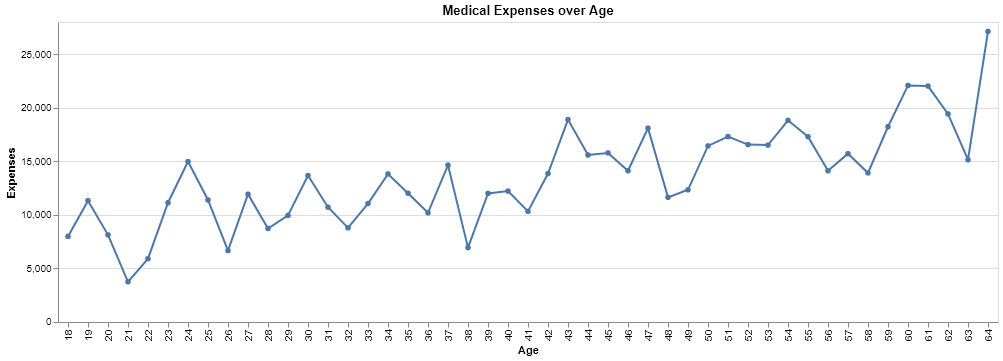
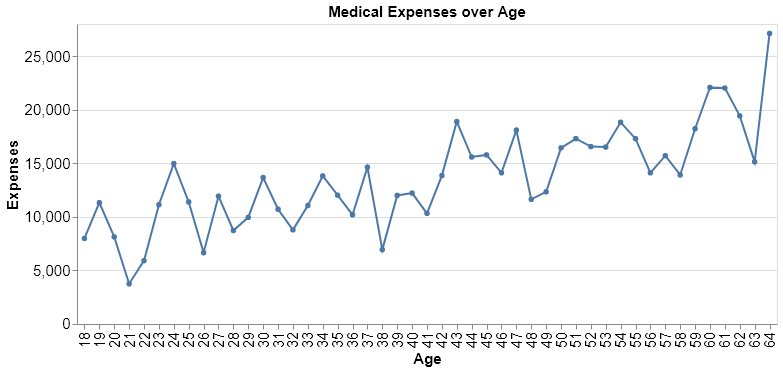
changed the size of the graph labels

diff --git a/src/visualization/eda.py b/src/visualization/eda.py
@@ -39,10 +39,9 @@ def main(input_data, output_location):
     alt.X('index:O', title=''),
     alt.Y('variable:O', title=''),
     alt.Color('value:Q',scale = alt.Scale(domain=[0, 1], scheme = 'purplered'))
-    ).properties(title="Correlation map of the features",
-            width = 300,
-            height = 300
-    )
+    ).properties(title="Correlation map of the features", width = 700, height = 300
+    ).configure_axis(labelFontSize = 15, titleFontSize = 15
+    ).configure_title(fontSize = 15)
     
     # saving results as png
     cor_map.save(output_location + '/0.correlation.png')
@@ -51,7 +50,9 @@ def main(input_data, output_location):
     meoa = alt.Chart(training_df.groupby(['age']).mean().reset_index()).mark_line(point = True).encode(
         alt.X('age:N', title = 'Age'),
         alt.Y('charges:Q', title = 'Expenses')
-    ).properties(title='Medical Expenses over Age')
+    ).properties(title='Medical Expenses over Age', width = 700, height = 300
+    ).configure_axis(labelFontSize = 15, titleFontSize = 15
+    ).configure_title(fontSize = 15)
     
     # saving results as png
     meoa.save(output_location + '/1.Expenses_VS_Age.png')
@@ -70,8 +71,9 @@ def main(input_data, output_location):
     bmi = alt.Chart(training_df.groupby(['bmi_cat']).mean().reset_index()).mark_bar().encode(
     alt.X('bmi_cat:N', title = 'BMI', sort=['underweigth', 'normal', 'overweight', 'obese']),
     alt.Y('charges:Q', title = 'Expenses')
-    ).properties(title='Medical Expenses vs BMI', width=300)
-
+    ).properties(title='Medical Expenses vs BMI', width = 700, height = 300
+    ).configure_axis(labelFontSize = 20, titleFontSize = 20
+    ).configure_title(fontSize = 20)
 
     # saving results as png
     bmi.save(output_location + '/2.Expenses_VS_BMI.png')
@@ -81,7 +83,9 @@ def main(input_data, output_location):
         alt.X('age:N', title = 'Age'),
         alt.Y('charges:Q', title = 'Expenses'),
         alt.Color('sex:N')
-    ).properties(title='Male and Female Medical Expenses Over Age')
+    ).properties(title='Male and Female Medical Expenses Over Age', width = 700, height = 300
+    ).configure_axis(labelFontSize = 15, titleFontSize = 15
+    ).configure_title(fontSize = 15)
 
     # saving results as png
     exp_gender.save(output_location + '/3.Expenses_VS_Gender.png')
@@ -91,7 +95,9 @@ def main(input_data, output_location):
         alt.X('age:N', title = 'Age'),
         alt.Y('charges:Q', title = 'Expenses'),
         alt.Color('smoker:N')
-    ).properties(title='Smokers & Non Smokers Medical Expenses Over Age')
+    ).properties(title='Smokers & Non Smokers Medical Expenses Over Age', width = 700, height = 300
+    ).configure_axis(labelFontSize = 15, titleFontSize = 15
+    ).configure_title(fontSize = 15)
 
     # saving results as png
     exp_smoke.save(output_location + '/4.Expenses_VS_Smoker.png')
@@ -102,7 +108,9 @@ def main(input_data, output_location):
         alt.X('bmi_cat:O', title = 'BMI', sort=['underweigth', 'normal', 'overweight', 'obese']),
         alt.Y('charges:Q', title = 'Expenses'),
         alt.Color('sex:N')
-    ).properties(title='Male & Female Expenses Over BMI', width=300)
+    ).properties(title='Male & Female Expenses Over BMI', width = 700, height = 300
+    ).configure_axis(labelFontSize = 20, titleFontSize = 20
+    ).configure_title(fontSize = 20)
 
     # saving results as png
     exp_bmi.save(output_location + '/6.EXP_VS_BMI.png')
